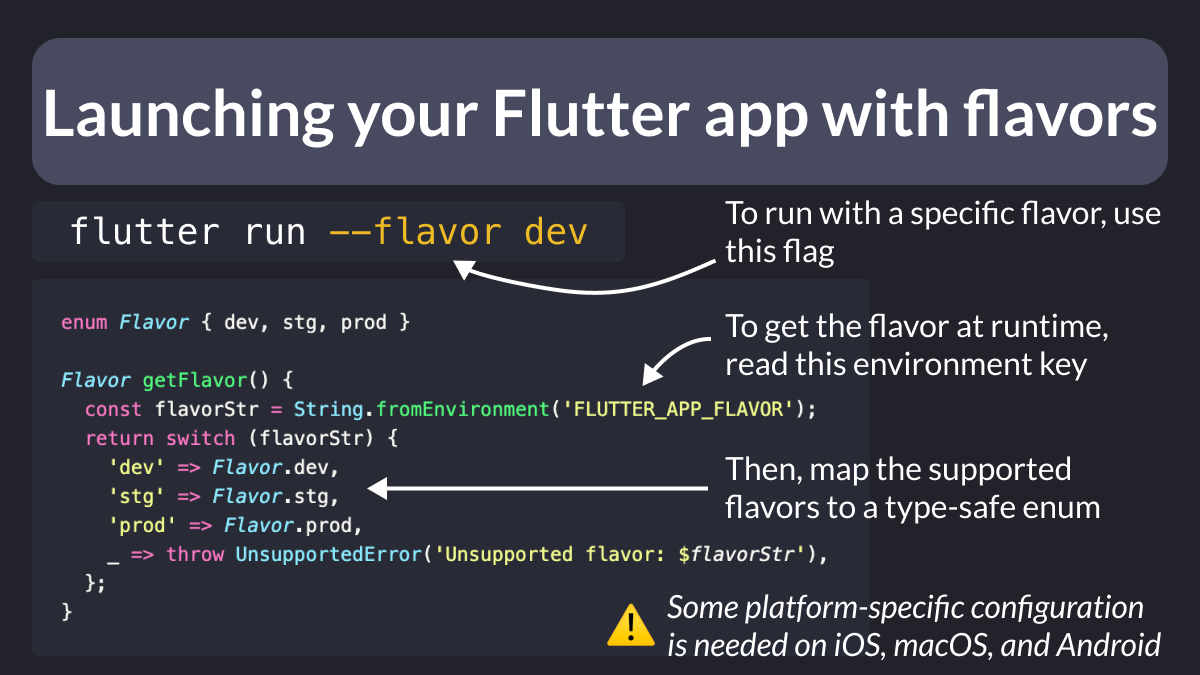
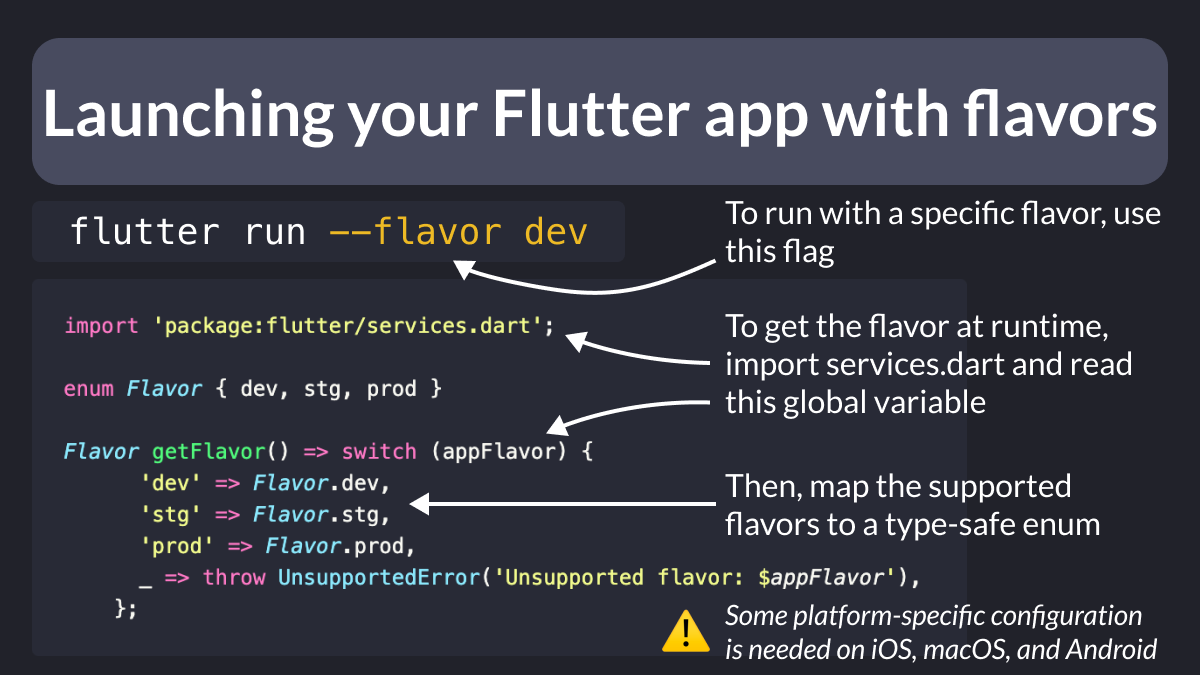
Update tip 142

diff --git a/tips/0142-flutter-run-flavor/main.dart b/tips/0142-flutter-run-flavor/main.dart
@@ -1,14 +1,13 @@
+import 'package:flutter/services.dart';
+
 enum Flavor { dev, stg, prod }
 
-Flavor getFlavor() {
-  const flavorStr = String.fromEnvironment('FLUTTER_APP_FLAVOR');
-  return switch (flavorStr) {
-    'dev' => Flavor.dev,
-    'stg' => Flavor.stg,
-    'prod' => Flavor.prod,
-    _ => throw UnsupportedError('Unsupported flavor: $flavorStr'),
-  };
-}
+Flavor getFlavor() => switch (appFlavor) {
+      'dev' => Flavor.dev,
+      'stg' => Flavor.stg,
+      'prod' => Flavor.prod,
+      _ => throw UnsupportedError('Unsupported flavor: $appFlavor'),
+    };
 
 // run with
 // flutter run --flavor dev

diff --git a/README.md b/README.md
@@ -14,7 +14,7 @@ A collection of all the Flutter tips & tricks I share on [Twitter](https://twitt
 
 | ID | View on GitHub (this repo)                                                                                                                                                        | Twitter Post   | LinkedIn Post | Link on [codewithandrea.com](https://codewithandrea.com/)                                                                            |
 | -- |-----------------------------------------------------------------------------------------------------------------------------------------------------------------------------------| -------------- | ------------- | ------------------------------------------------------------------------------------------------------------------------------------ |
-| 142 | [Launching your Flutter app with flavors](tips/0142-flutter-run-flavor/index.md) | [link](https://twitter.com/biz84/status/1750447557212242364) | [link](https://www.linkedin.com/posts/andreabizzotto_did-you-know-when-you-run-your-flutter-activity-7156213285724311554-Z0tF) | |
+| 142 | [Launching your Flutter app with flavors](tips/0142-flutter-run-flavor/index.md) | [link](https://twitter.com/biz84/status/1750486116581417103) | [link](https://www.linkedin.com/posts/andreabizzotto_take-2-when-you-run-your-flutter-app-activity-7156252095753441280-18QM) | |
 | 141 | [⚠ debugPrint prints in release mode ⚠](tips/0141-dont-use-debug-print/index.md) | [link](https://twitter.com/biz84/status/1747254624317546852) | [link](https://www.linkedin.com/posts/andreabizzotto_did-you-know-debugprint-prints-logs-in-activity-7153020484979236864--StA) | |
 | 140 | [Toggle Inlay Hints in VSCode](tips/0140-vscode-toggle-inlay-hints/index.md) | [link](https://twitter.com/biz84/status/1745778839249203498) | [link](https://www.linkedin.com/posts/andreabizzotto_did-you-know-in-vscode-you-can-hit-ctrl-activity-7151544645926154241-8CGO) | |
 | 139 | [GitHub Copilot Tips for Flutter Devs](tips/0139-github-copilot-tips-flutter-devs/index.md) | [link](https://twitter.com/biz84/status/1735680283767136686) | [link](https://www.linkedin.com/posts/andreabizzotto_did-you-know-github-copilot-was-recently-activity-7141455478047326208-VGpm) | [link](https://codewithandrea.com/articles/github-copilot-tips-for-flutter-devs/) |

diff --git a/tips/0142-flutter-run-flavor/index.md b/tips/0142-flutter-run-flavor/index.md
@@ -4,7 +4,7 @@ Did you know?
 
 When you run your Flutter app, you can add a `--flavor` argument.
 
-To get the flavor at runtime, read the `FLUTTER_APP_FLAVOR` environment variable.
+To get the flavor at runtime, import `services.dart` and read the `appFlavor` global variable.
 
 This will return a string that you can map to a type-safe enum.
 
@@ -23,7 +23,7 @@ Check this guide for all the details:
 
 ---
 
-### Found this useful? Show some love and share the [original tweet](https://twitter.com/biz84/status/1750447557212242364) 🙏
+### Found this useful? Show some love and share the [original tweet](https://twitter.com/biz84/status/1750486116581417103) 🙏
 
 ---
 
